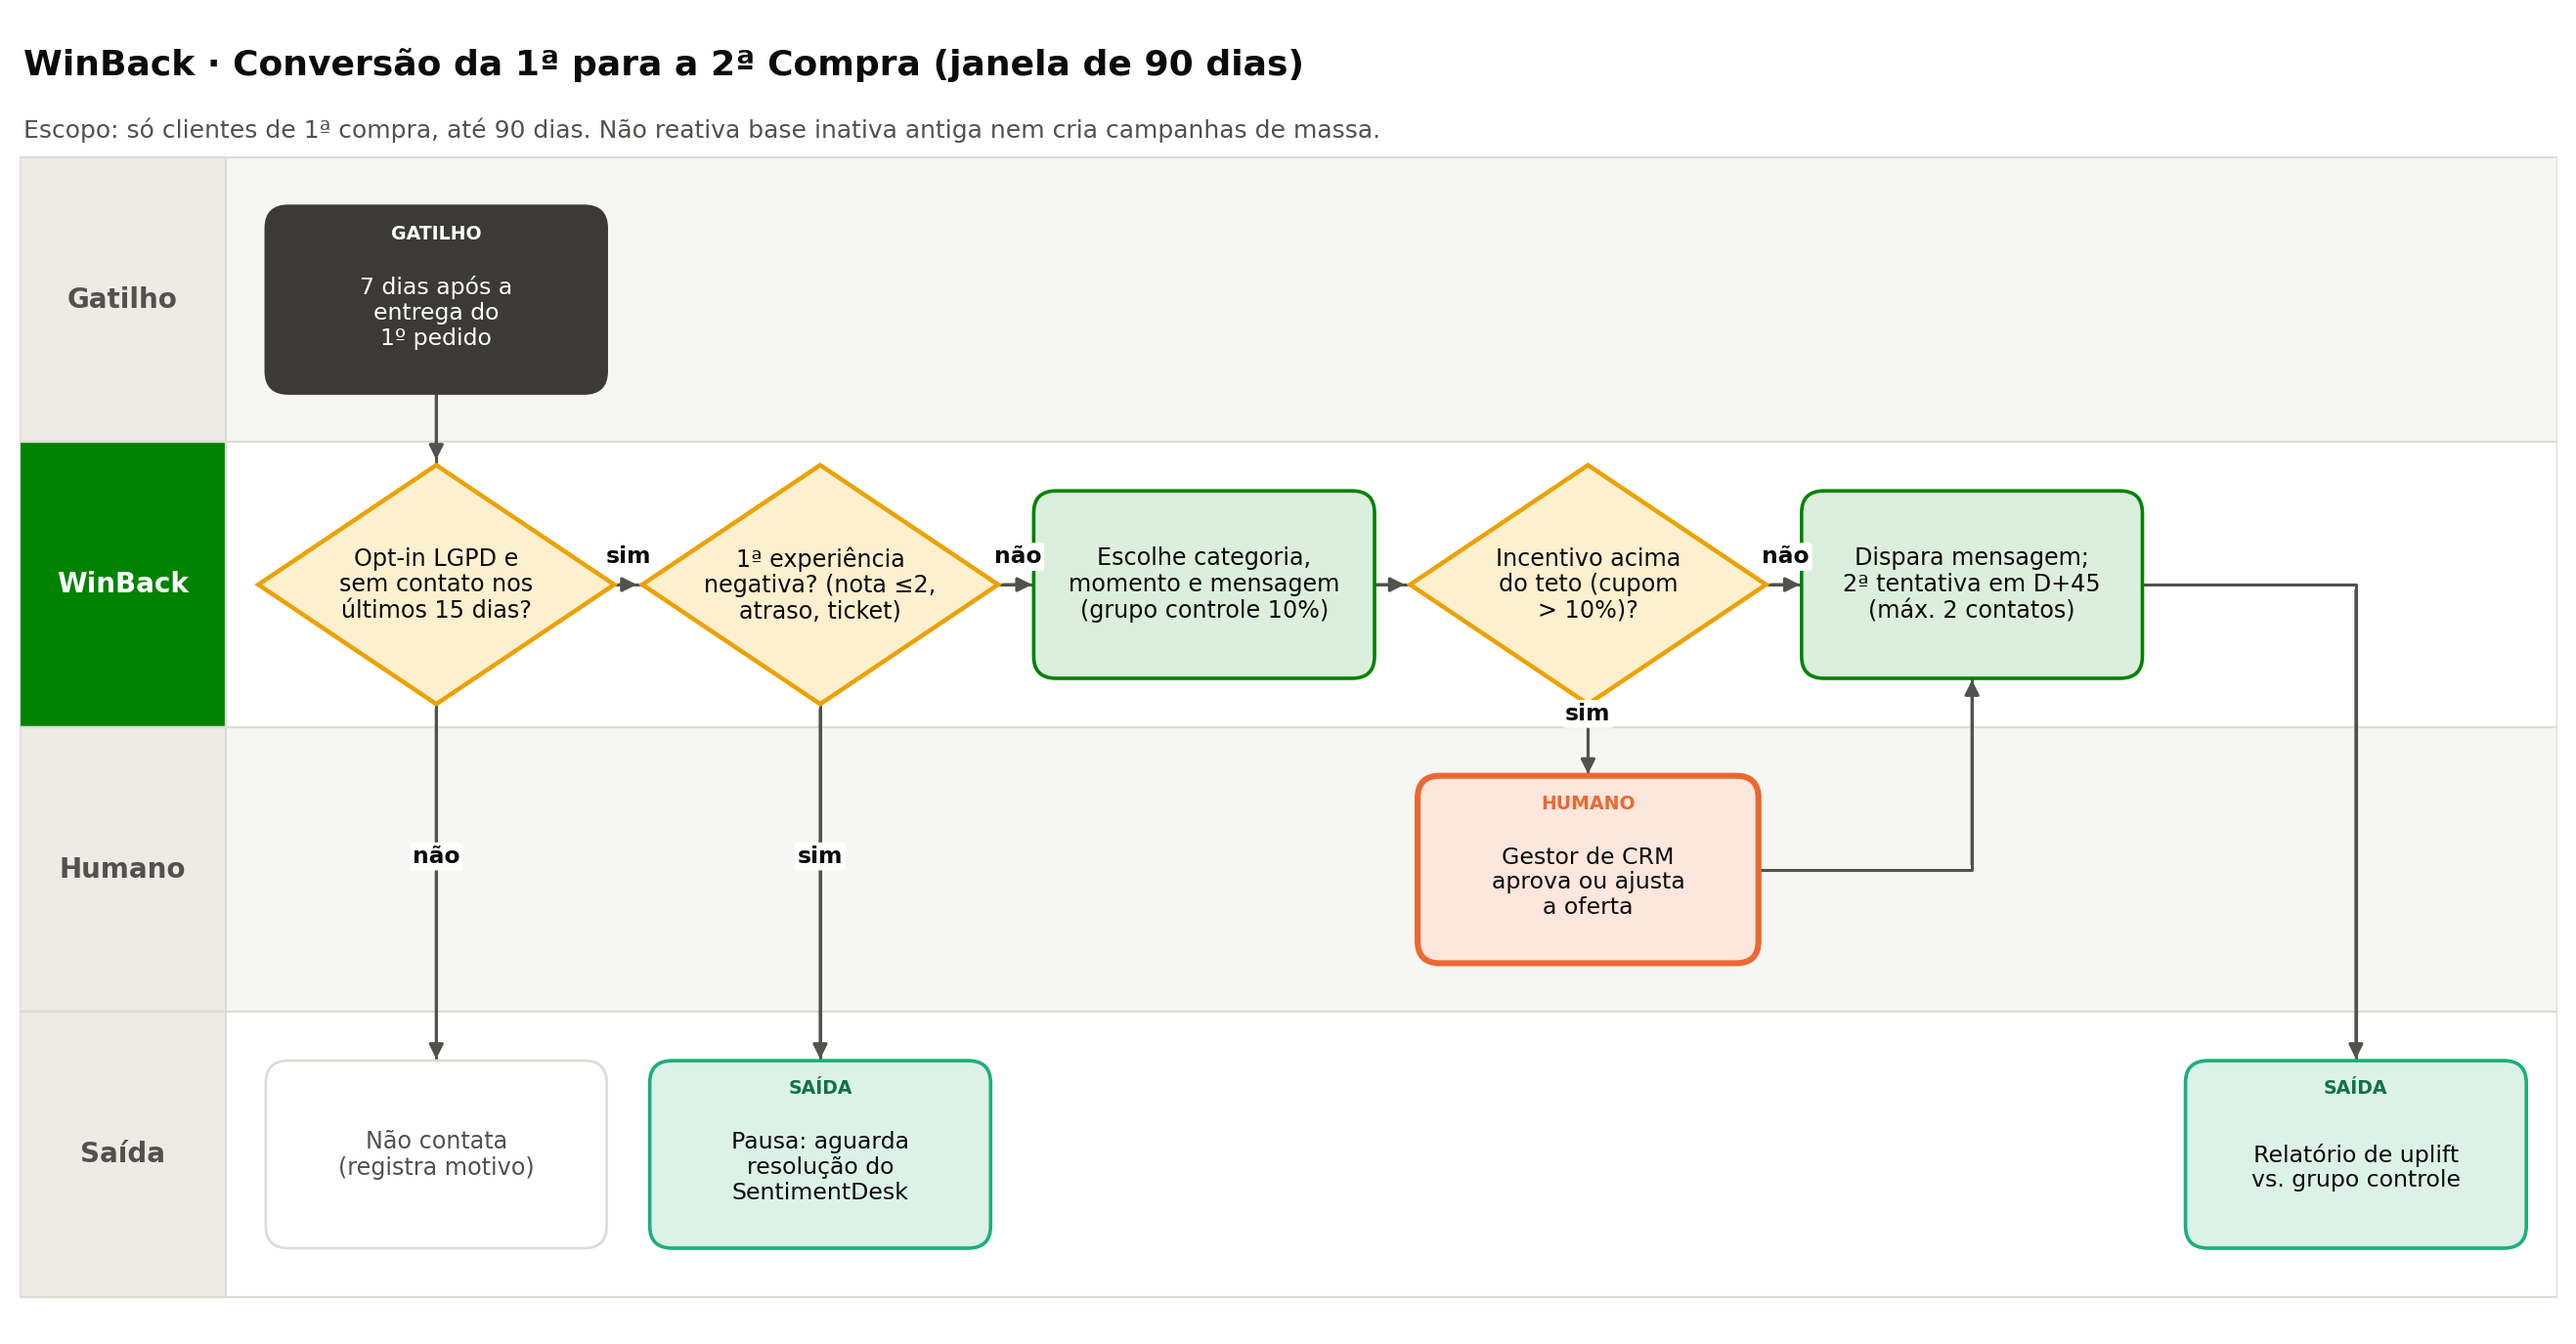
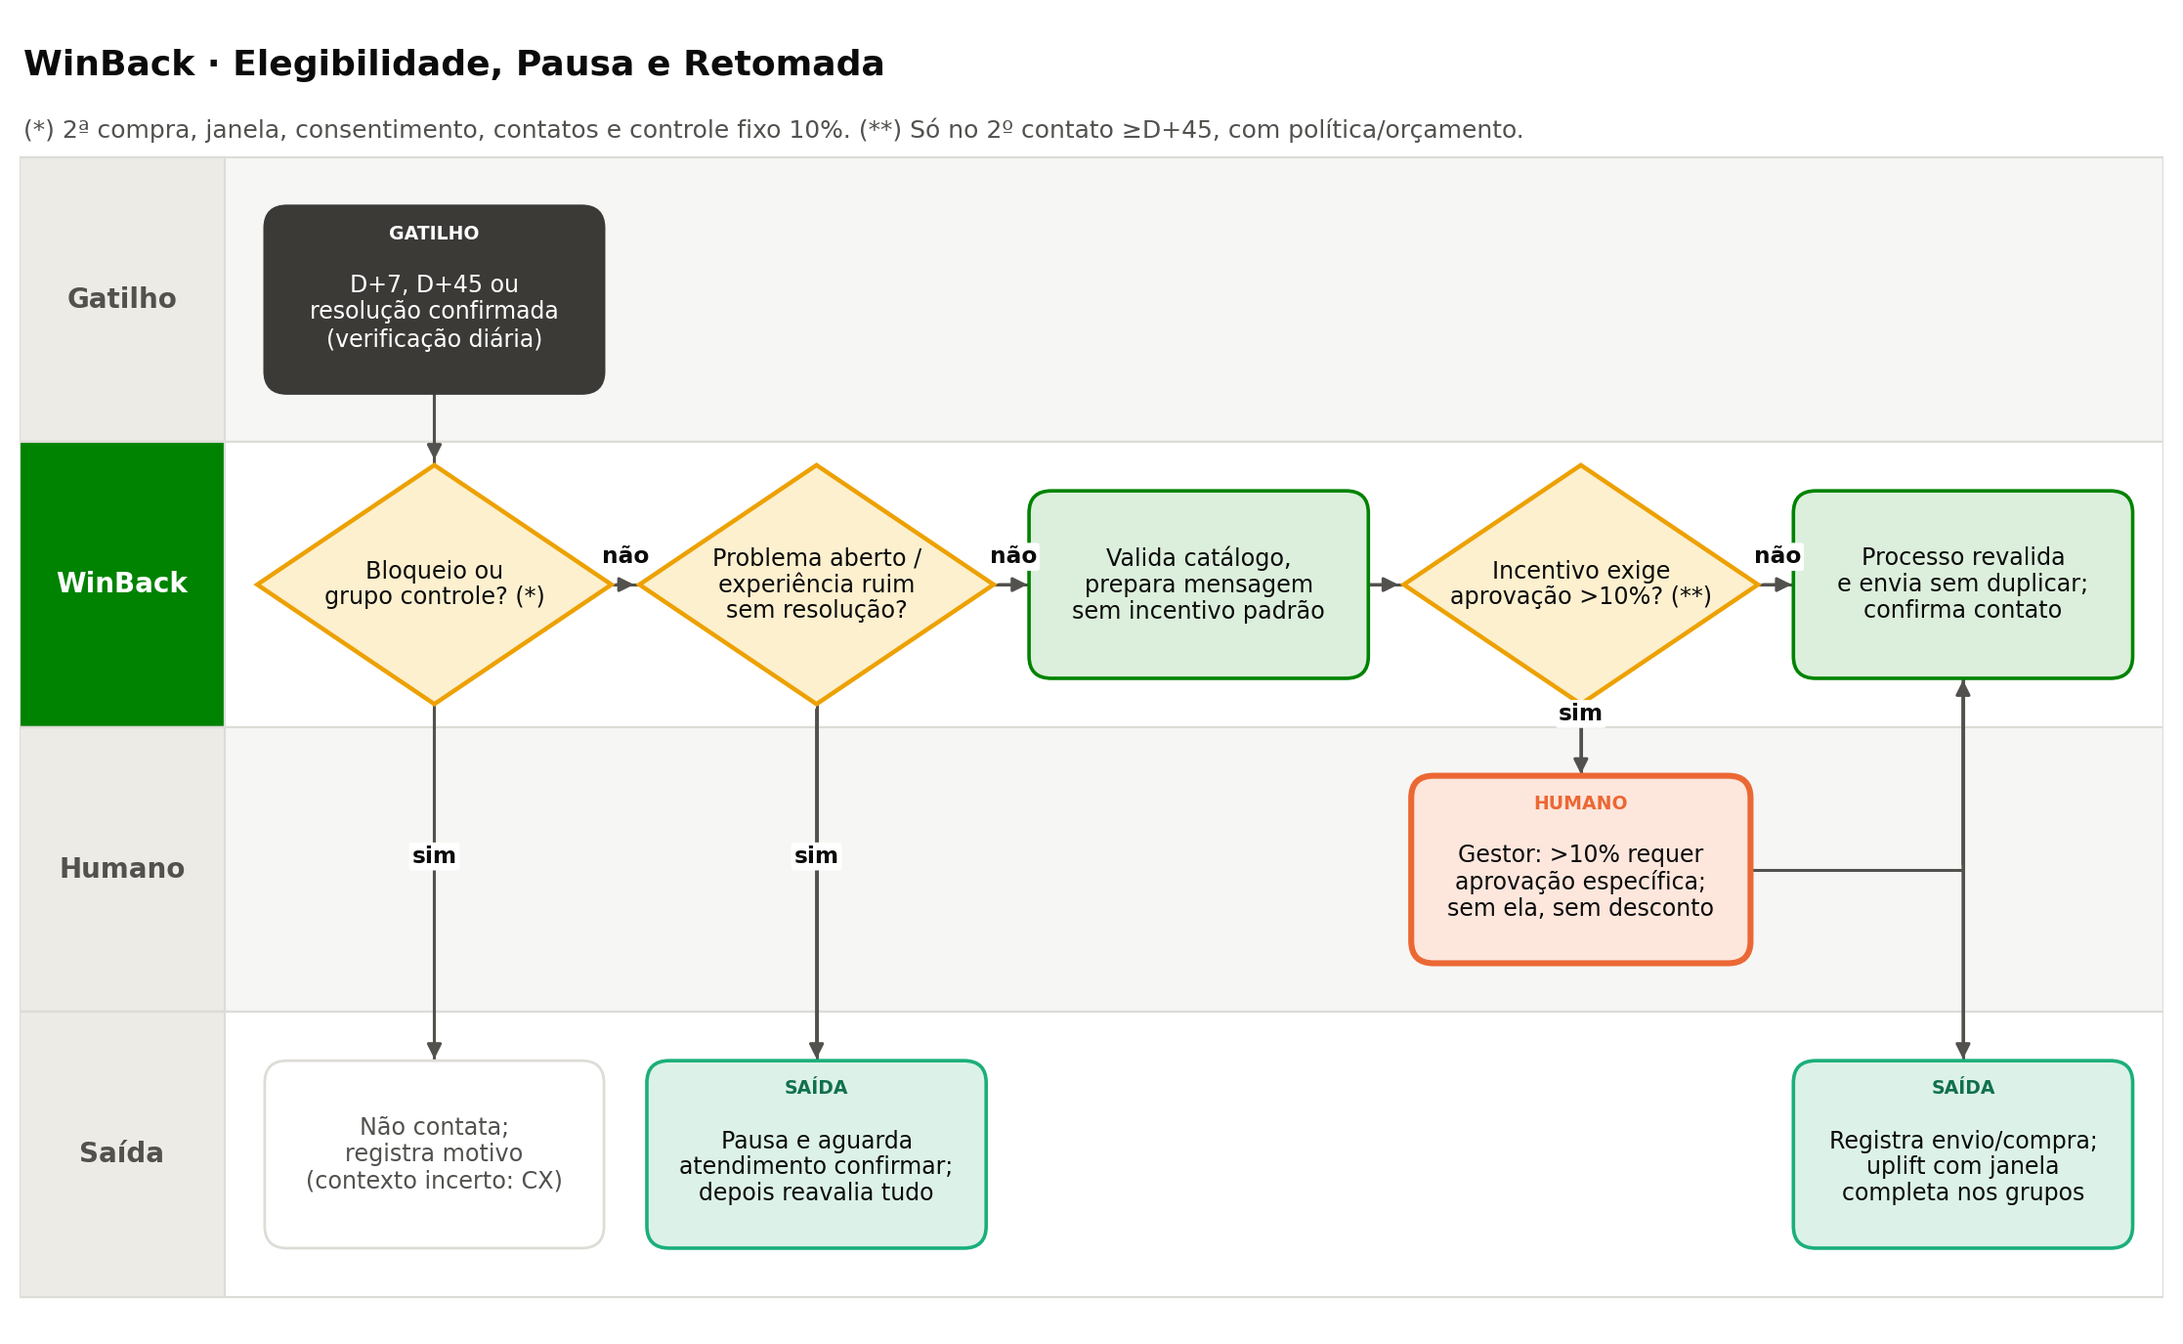
Alinha fluxos SentimentDesk WinBack e jornada integrada

diff --git a/fase2/fluxos/gerar_fluxos.py b/fase2/fluxos/gerar_fluxos.py
@@ -134,40 +134,42 @@ desenhar('fluxo_logipredict', 'LogiPredict · Guardião do Prazo de Entrega', 'L
     ncols=6, subtitulo='Escopo: só pedidos entre a aprovação e a entrega. Não negocia frete nem troca transportadora sozinho.')
 
 # --------------------------------------------------------------------------- SentimentDesk
-desenhar('fluxo_sentimentdesk', 'SentimentDesk · Triagem e Resposta de Avaliações Negativas', 'SentimentDesk', RAIAS,
+desenhar('fluxo_sentimentdesk', 'SentimentDesk · Triagem, Revisão e Execução Confirmada', 'SentimentDesk', RAIAS,
     nos=[
-        ('t1', 'Gatilho', 0, 'gatilho', 'Avaliação nota 1–3\npublicada (com ou\nsem comentário)'),
-        ('a1', 'Agente', 0, 'agente', 'Classifica motivo\n(texto + dados do\npedido), severidade'),
-        ('d1', 'Agente', 1, 'decisao', 'Confiança da\nclassificação\n≥ 80%?'),
-        ('h0', 'Humano', 1, 'humano', 'Analista CX\nclassifica\nmanualmente'),
-        ('d2', 'Agente', 2, 'decisao', 'Caso crítico?\n(Procon, fraude,\nnão recebido)'),
-        ('h1', 'Humano', 3, 'humano', 'Analista CX revisa\nresposta e define\ncompensação (alçada)'),
-        ('a2', 'Agente', 4, 'agente', 'Envia resposta\naprovada + abre ticket\nao responsável'),
-        ('d3', 'Agente', 5, 'decisao', 'Motivo =\nentrega?'),
-        ('o1', 'Saída', 5, 'saida', 'Sinal ao LogiPredict\n+ pausa no WinBack'),
-        ('o2', 'Saída', 6, 'saida', 'Ticket ao seller +\ndashboard semanal\nde motivos'),
+        ('t1', 'Gatilho', 0, 'gatilho', 'Avaliação nota 1–3\n(contexto conhecido\nnaquele instante)'),
+        ('a1', 'Agente', 0, 'agente', 'Classifica relato;\nsem texto: OUTROS\n(causa a apurar)'),
+        ('d1', 'Agente', 1, 'decisao', 'Revisão\nnecessária? (*)'),
+        ('h1', 'Humano', 1, 'humano', 'CX apura contexto\ne aprova decisão\ne rascunho'),
+        ('a2', 'Agente', 2, 'agente', 'Processo solicita\nticket/atualização\n(sem duplicar)'),
+        ('d2', 'Agente', 3, 'decisao', 'Execução\nconfirmada?'),
+        ('h2', 'Humano', 3, 'humano', 'Falha: manter fila,\nsem alegar sucesso;\nreprocessar'),
+        ('a3', 'Agente', 4, 'agente', 'Envia resposta\nautorizada; SLA só\nse fornecido'),
+        ('o1', 'Saída', 4, 'saida', 'Registra ticket,\nresposta e motivos\nno dashboard'),
+        ('o2', 'Saída', 2, 'saida', 'Problema aberto: pausa\nWinBack; motivo de\nentrega: LogiPredict'),
     ],
-    arestas=[('t1', 'a1'), ('a1', 'd1'), ('d1', 'h0', 'não'), ('h0', 'h1'), ('d1', 'd2', 'sim'),
-             ('d2', 'h1', 'sim', 'vh'), ('d2', 'a2', 'não'), ('h1', 'a2', '', 'hv'), ('a2', 'd3'), ('d3', 'o1', 'sim'), ('d3', 'o2', 'não', 'hv')],
-    ncols=7, subtitulo='Escopo: só avaliações negativas/neutras. Não concede reembolso nem penaliza seller; responde e roteia.')
+    arestas=[('t1', 'a1'), ('a1', 'd1'), ('d1', 'h1', 'sim'), ('d1', 'a2', 'não'),
+             ('h1', 'a2', '', 'hv'), ('a2', 'd2'), ('d2', 'h2', 'não'), ('d2', 'a3', 'sim'),
+             ('a3', 'o1'), ('a2', 'o2')],
+    ncols=5, subtitulo='(*) Crítica, confiança < 0,8, valor > R$500/ausente ou contexto incerto. Pausa vale para qualquer problema aberto.')
 
 # --------------------------------------------------------------------------- WinBack
-desenhar('fluxo_winback', 'WinBack · Conversão da 1ª para a 2ª Compra (janela de 90 dias)', 'WinBack', RAIAS,
+desenhar('fluxo_winback', 'WinBack · Elegibilidade, Pausa e Retomada', 'WinBack', RAIAS,
     nos=[
-        ('t1', 'Gatilho', 0, 'gatilho', '7 dias após a\nentrega do\n1º pedido'),
-        ('d1', 'Agente', 0, 'decisao', 'Opt-in LGPD e\nsem contato nos\núltimos 15 dias?'),
-        ('f1', 'Saída', 0, 'fim', 'Não contata\n(registra motivo)'),
-        ('d2', 'Agente', 1, 'decisao', '1ª experiência\nnegativa? (nota ≤2,\natraso, ticket)'),
-        ('a0', 'Saída', 1, 'saida', 'Pausa: aguarda\nresolução do\nSentimentDesk'),
-        ('a1', 'Agente', 2, 'agente', 'Escolhe categoria,\nmomento e mensagem\n(grupo controle 10%)'),
-        ('d3', 'Agente', 3, 'decisao', 'Incentivo acima\ndo teto (cupom\n> 10%)?'),
-        ('h1', 'Humano', 3, 'humano', 'Gestor de CRM\naprova ou ajusta\na oferta'),
-        ('a2', 'Agente', 4, 'agente', 'Dispara mensagem;\n2ª tentativa em D+45\n(máx. 2 contatos)'),
-        ('o1', 'Saída', 5, 'saida', 'Relatório de uplift\nvs. grupo controle'),
+        ('t1', 'Gatilho', 0, 'gatilho', 'D+7, D+45 ou\nresolução confirmada\n(verificação diária)'),
+        ('d1', 'Agente', 0, 'decisao', 'Bloqueio ou\ngrupo controle? (*)'),
+        ('f1', 'Saída', 0, 'fim', 'Não contata;\nregistra motivo\n(contexto incerto: CX)'),
+        ('d2', 'Agente', 1, 'decisao', 'Problema aberto /\nexperiência ruim\nsem resolução?'),
+        ('a0', 'Saída', 1, 'saida', 'Pausa e aguarda\natendimento confirmar;\ndepois reavalia tudo'),
+        ('a1', 'Agente', 2, 'agente', 'Valida catálogo,\nprepara mensagem\nsem incentivo padrão'),
+        ('d3', 'Agente', 3, 'decisao', 'Incentivo exige\naprovação >10%? (**)'),
+        ('h1', 'Humano', 3, 'humano', 'Gestor: >10% requer\naprovação específica;\nsem ela, sem desconto'),
+        ('a2', 'Agente', 4, 'agente', 'Processo revalida\ne envia sem duplicar;\nconfirma contato'),
+        ('o1', 'Saída', 4, 'saida', 'Registra envio/compra;\nuplift com janela\ncompleta nos grupos'),
     ],
-    arestas=[('t1', 'd1'), ('d1', 'f1', 'não'), ('d1', 'd2', 'sim'), ('d2', 'a0', 'sim'), ('d2', 'a1', 'não'),
-             ('a1', 'd3'), ('d3', 'h1', 'sim'), ('d3', 'a2', 'não'), ('h1', 'a2', '', 'hv'), ('a2', 'o1', '', 'hv')],
-    ncols=6, subtitulo='Escopo: só clientes de 1ª compra, até 90 dias. Não reativa base inativa antiga nem cria campanhas de massa.')
+    arestas=[('t1', 'd1'), ('d1', 'f1', 'sim'), ('d1', 'd2', 'não'), ('d2', 'a0', 'sim'),
+             ('d2', 'a1', 'não'), ('a1', 'd3'), ('d3', 'h1', 'sim'), ('d3', 'a2', 'não'),
+             ('h1', 'a2', '', 'hv'), ('a2', 'o1')],
+    ncols=5, subtitulo='(*) 2ª compra, janela, consentimento, contatos e controle fixo 10%. (**) Só no 2º contato ≥D+45, com política/orçamento.')
 
 
 # --------------------------------------------------------------------------- Jornada multiagente
@@ -180,12 +182,12 @@ def jornada():
         (1, 'LogiPredict', 'D+6', 'Seller perto do\nlimite: lembrete'),
         (2, 'LogiPredict', 'D+11', 'Postou atrasado +\nrota MA: risco alto'),
         (2, 'Humano', 'D+11', 'Ops prioriza\ncom transportadora'),
-        (3, 'Cliente', 'D+27', 'D-3: recebe aviso\ncom nova data (03/04)'),
-        (4, 'Cliente', 'D+40', 'Entrega com\natraso; nota 1'),
-        (5, 'SentimentDesk', 'D+40', 'Sem texto: motivo\ninferido = atraso;\nresposta + ticket'),
-        (5, 'WinBack', 'D+40', 'Pausa oferta\n(experiência ruim)'),
-        (6, 'Humano', 'D+41', 'CX aprova\ncupom de desculpas'),
-        (7, 'WinBack', 'D+55', 'Oferta de 2ª compra\n(categoria afim)'),
+        (3, 'Cliente', 'D+27', 'D-3: Ops verifica\nprevisão antes\nde eventual aviso'),
+        (4, 'Cliente', 'D+40', 'Entrega com atraso;\navaliação nota 1\n(data não verificada)'),
+        (5, 'SentimentDesk', 'Após avaliação', 'Após avaliação:\nOUTROS, sem texto;\nrevisão humana'),
+        (5, 'WinBack', 'Problema aberto', 'Registra bloqueio;\njanela comercial só\napós D+7 da entrega'),
+        (6, 'Humano', 'Após apuração', 'Simulação: CX apura\ne confirma resolução\nquando comprovada'),
+        (7, 'WinBack', 'Após resolução', 'Simulação: reavalia\nelegibilidade; oferta\nsó se permitida'),
     ]
     ncols = 8
     L = len(raias)
@@ -193,7 +195,7 @@ def jornada():
     fig, ax = plt.subplots(figsize=(largura * 0.98, L * 1.05 + 1.1))
     ax.set_xlim(0, largura); ax.set_ylim(-0.55, L * 1.05 + 0.75); ax.axis('off')
     ax.text(0.02, L * 1.05 + 0.5, 'Jornada multiagente · "O pedido que ia atrasar"', fontsize=13, fontweight='bold', color=INK)
-    ax.text(0.02, L * 1.05 + 0.15, 'Pedido real do dataset (MG → MA, postagem 4 dias após o limite, entregue 10 dias após o prazo). Linha do tempo com os agentes atuando.',
+    ax.text(0.02, L * 1.05 + 0.15, 'Pedido real do dataset (MG → MA, postagem 4 dias após o limite, entregue 10 dias após o prazo). Ações dos agentes e resolução são simulações, não eventos observados.',
             fontsize=9, color=INK2)
     for i, r in enumerate(raias):
         y0 = (L - 1 - i) * 1.05
@@ -201,6 +203,7 @@ def jornada():
         ax.add_patch(Rectangle((0, y0), 1.1, 1.05, facecolor=cores[r][0], edgecolor=LANE_LINE, lw=0.8))
         ax.text(0.55, y0 + 0.525, r, ha='center', va='center', fontsize=9.5 if len(r) <= 11 else 8.2, fontweight='bold', color='white')
     prev = None
+    cols_rotuladas = set()
     for col, r, dia, txt in eventos:
         i = raias.index(r)
         cx, cy = 1.25 + col * 1.75 + 0.85, (L - 1 - i) * 1.05 + 0.525
@@ -208,7 +211,9 @@ def jornada():
         ax.add_patch(FancyBboxPatch((cx - 0.78, cy - 0.38), 1.56, 0.76, boxstyle='round,pad=0.02,rounding_size=0.1',
                                     facecolor=cores[r][1], edgecolor=ec, lw=2.0 if r == 'Humano' else 1.2, zorder=3))
         ax.text(cx, cy, txt, ha='center', va='center', fontsize=8.4, color=INK, zorder=4, linespacing=1.12)
-        ax.text(cx, -0.35, dia, ha='center', va='center', fontsize=8, color=INK2, fontweight='bold')
+        if col not in cols_rotuladas:
+            ax.text(cx, -0.35, dia, ha='center', va='center', fontsize=8, color=INK2, fontweight='bold')
+            cols_rotuladas.add(col)
         if prev is not None:
             px, py = prev
             if abs(px - cx) < 0.1:      # mesma coluna: seta vertical
